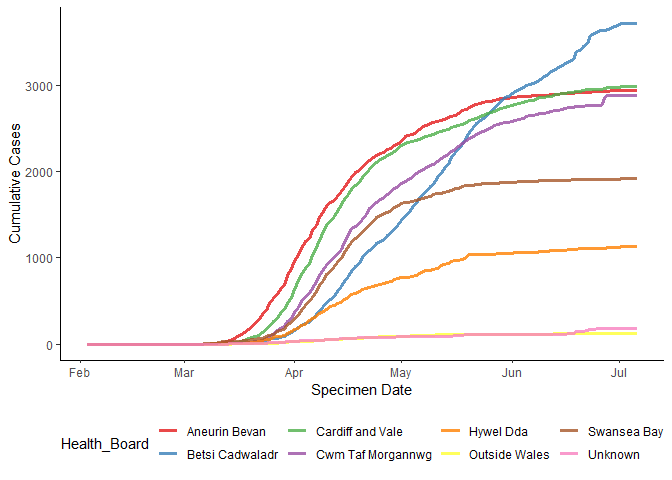
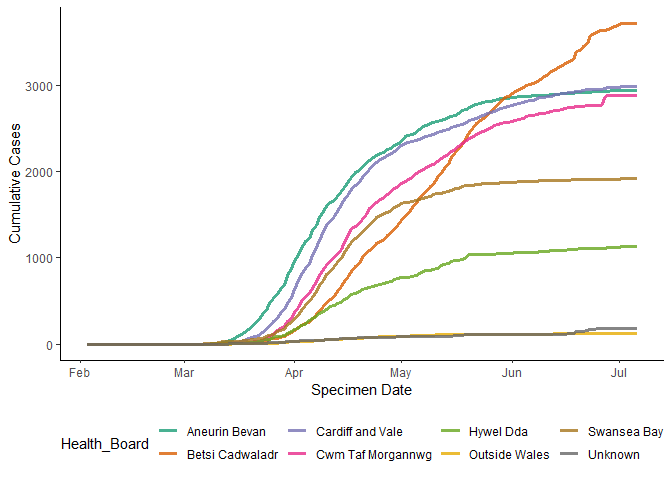
Updated analysis - Cases by age and sex

diff --git a/Wales-COVID-19-exploration.md b/Wales-COVID-19-exploration.md
@@ -71,7 +71,7 @@ ggplot(Cumualtive_Cases_Health_Board,aes(x = Specimen_date, y = Cumulative_cases
   xlab('Specimen Date') +
   ylab('Cumulative Cases') +
   theme(legend.position = 'bottom') +
-  scale_color_brewer(palette = 'Set1')
+  scale_color_brewer(palette = 'Dark2')
 ```
 
 ![](Wales-COVID-19-exploration_files/figure-markdown_github/unnamed-chunk-5-1.png) \#\#\# New cases per health board
@@ -99,7 +99,27 @@ ggplot(Plotting_Data,aes(x = Specimen_date, y = New_Case_Average)) +
   xlab('Specimen Date') +
   ylab('Number of New Cases \n(5 day rolling average) ') +
   theme(legend.position = 'bottom') +
-  scale_color_brewer(palette = 'Set1')
+  scale_color_brewer(palette = 'Dark2')
 ```
 
 ![](Wales-COVID-19-exploration_files/figure-markdown_github/unnamed-chunk-6-1.png)
+
+### Cases by age and sex
+
+``` r
+Age_Sex2=Age_Sex[!Age_Sex$Cases == 0,]
+Age_Sex2$Age_group = factor(Age_Sex2$Age_group, levels= c('<10','10-19','20-29','30-39','40-49','50-59',
+                                                          '60-69','70-79','80-89','90-99','100+','Unknown'))
+
+ggplot(Age_Sex2, aes(x=Cases,
+                    y=Age_group)) + 
+  geom_point(size=15, alpha=0.6, shape=21, color='black', aes(fill=Sex)) +
+  xlab('Cases') +
+  ylab('Age Group') +
+  scale_x_log10() +
+  theme_classic() +
+  theme(legend.position = 'bottom') +
+  scale_fill_brewer(palette = 'Dark2')
+```
+
+![](Wales-COVID-19-exploration_files/figure-markdown_github/unnamed-chunk-7-1.png)
